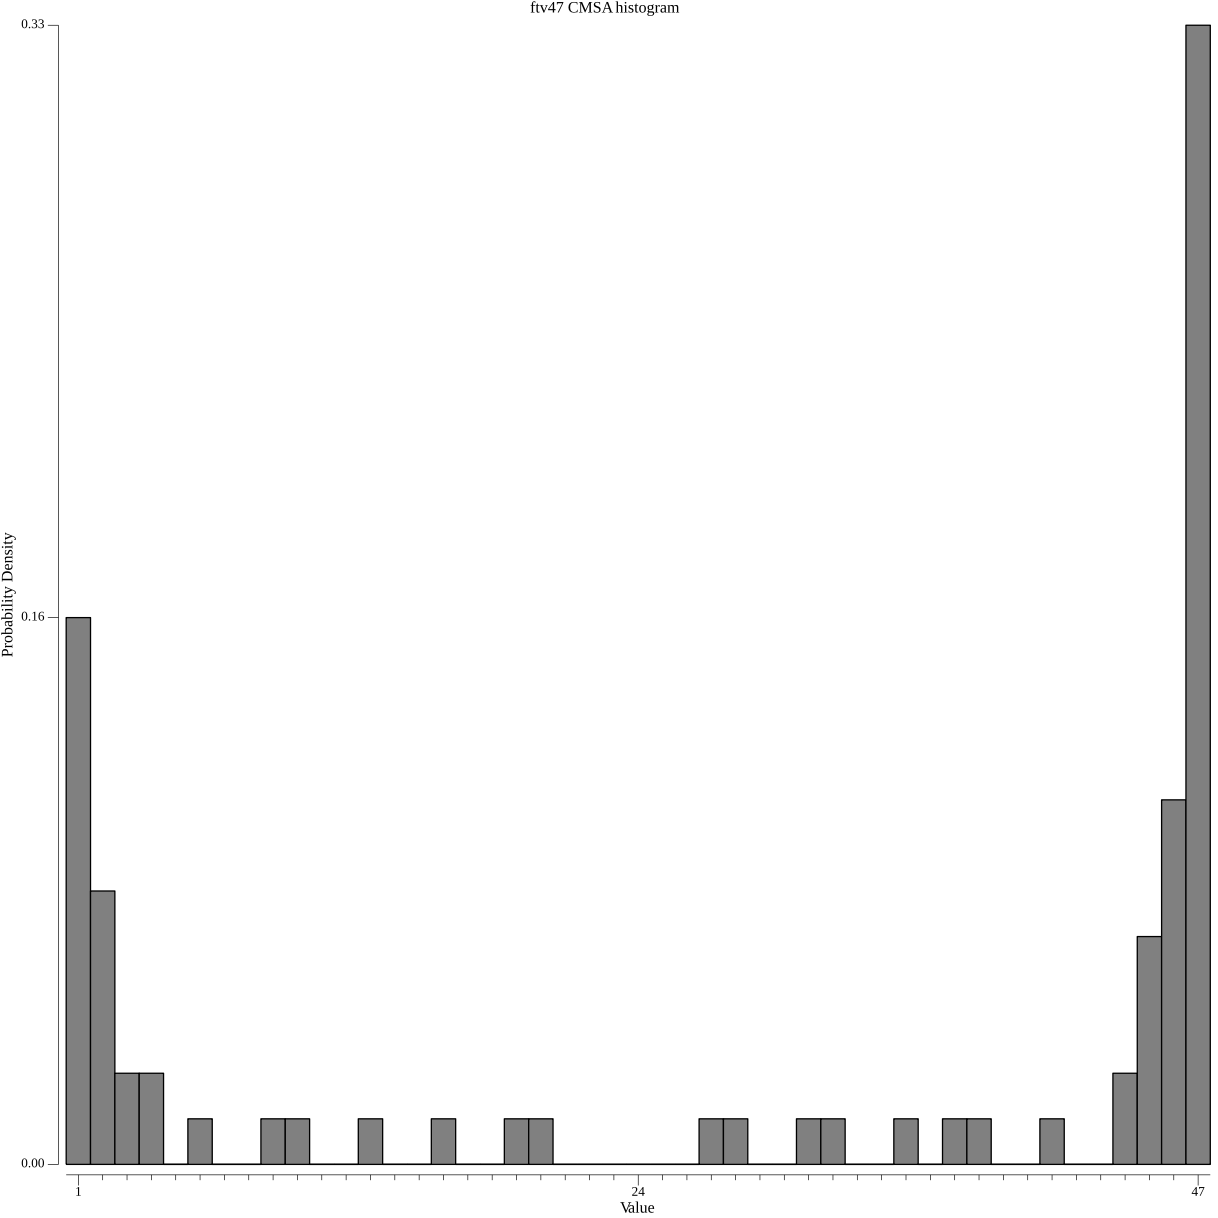
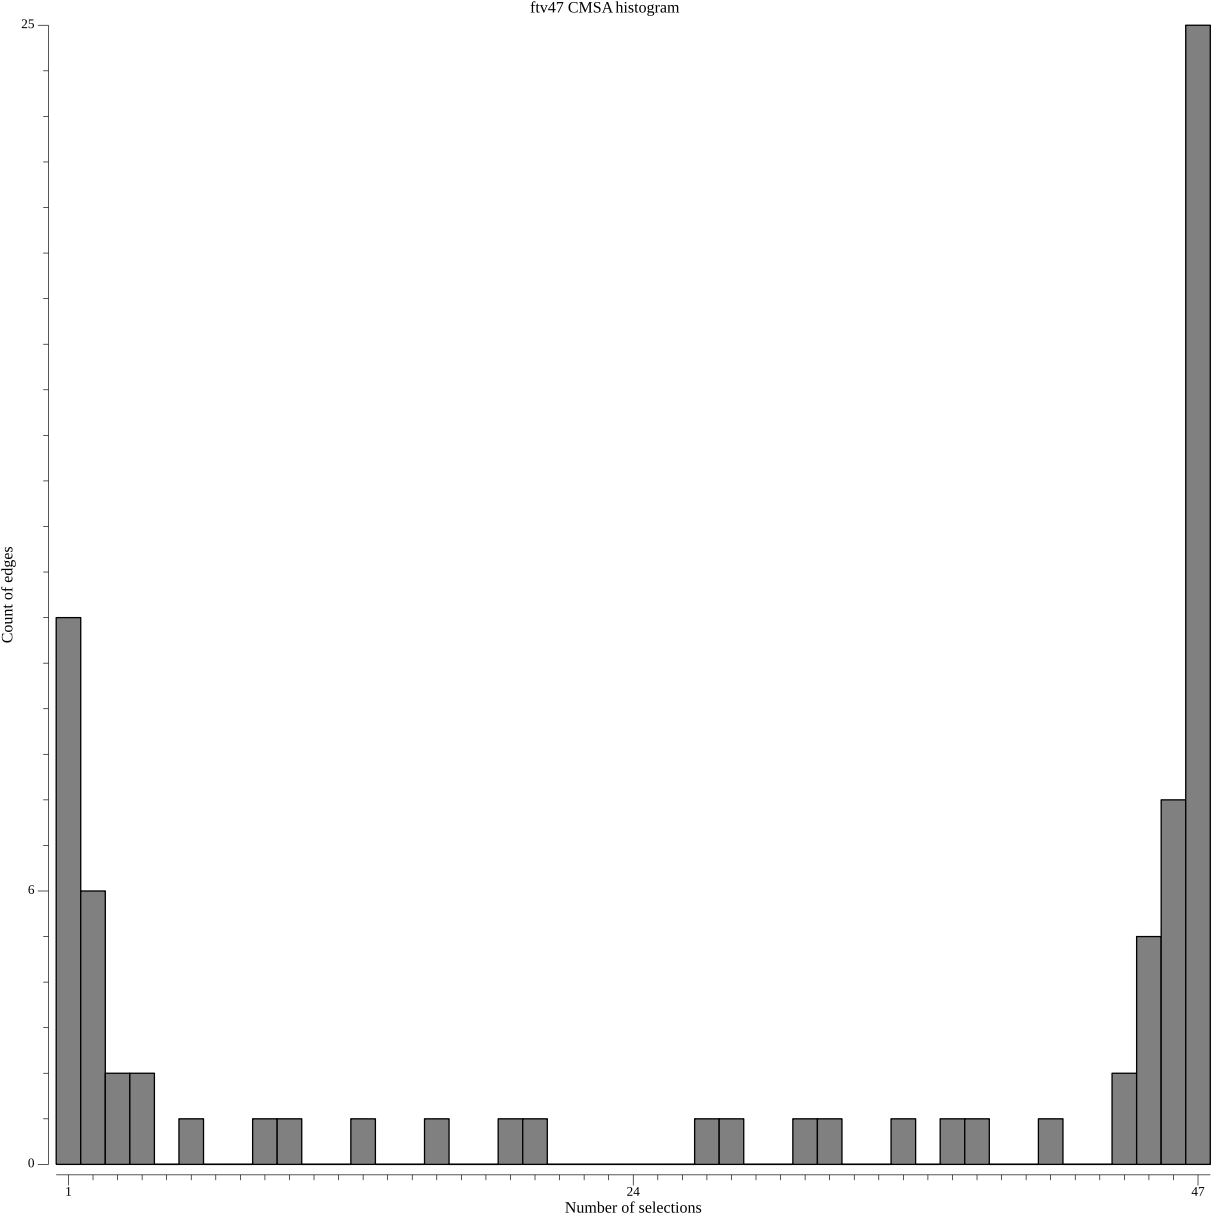
better histograms

diff --git a/modules/utilities/utilities.go b/modules/utilities/utilities.go
@@ -5,6 +5,7 @@ import (
 	"math"
 	"os"
 	"regexp"
+	"sort"
 	"strconv"
 
 	"gonum.org/v1/plot"
@@ -72,20 +73,18 @@ func SaveHistogramFromData(data []float64, bins int, plotTitle, plotPath string)
 
 	histogramPlot := plot.New()
 	histogramPlot.Title.Text = plotTitle
-	histogramPlot.X.Label.Text = "Value"
+	histogramPlot.X.Label.Text = "Number of selections"
 	histogramPlot.X.Min = 1.0
-	histogramPlot.Y.Label.Text = "Probability Density"
+	histogramPlot.Y.Label.Text = "Count of edges"
 
 	hist, err := plotter.NewHist(values, bins)
 	if err != nil {
 		return err
 	}
-	hist.Normalize(1)
 
-	minBin := hist.Bins[0]
-	midBin := hist.Bins[bins/2]
-	maxBin := hist.Bins[bins-1]
-	binsForTicks := []plotter.HistogramBin{minBin, midBin, maxBin}
+	firstBin := hist.Bins[0]
+	middleBin := hist.Bins[bins/2]
+	lastBin := hist.Bins[bins-1]
 
 	histogramPlot.X.Tick.Marker = plot.TickerFunc(func(min, max float64) []plot.Tick {
 		var ticks []plot.Tick
@@ -93,7 +92,7 @@ func SaveHistogramFromData(data []float64, bins int, plotTitle, plotPath string)
 			center := (bin.Min + bin.Max) / 2
 
 			label := ""
-			if bin == minBin || bin == midBin || bin == maxBin {
+			if bin == firstBin || bin == middleBin || bin == lastBin {
 				label = fmt.Sprintf("%d", int(math.Round(center)))
 			}
 
@@ -106,17 +105,37 @@ func SaveHistogramFromData(data []float64, bins int, plotTitle, plotPath string)
 		return ticks
 	})
 
+	heightsSet := make(map[int]bool)
+	for _, bin := range hist.Bins {
+		heightsSet[int(bin.Weight)] = true
+	}
+
+	heights := make([]int, 0, len(heightsSet))
+	for k := range heightsSet {
+		heights = append(heights, k)
+	}
+
+	sort.Slice(heights, func(i, j int) bool {
+		return heights[i] < heights[j]
+	})
+
+	heightsCount := len(heights)
+	smallestHeight := heights[0]
+	medianHeight := heights[heightsCount/2]
+	biggestHeight := heights[heightsCount-1]
+
 	histogramPlot.Y.Tick.Marker = plot.TickerFunc(func(min, max float64) []plot.Tick {
 		var ticks []plot.Tick
-		for _, bin := range binsForTicks {
+
+		for i := 0; i <= biggestHeight; i++ {
 
 			label := ""
-			if bin == minBin || bin == midBin || bin == maxBin {
-				label = fmt.Sprintf("%.2f", bin.Weight)
+			if i == smallestHeight || i == medianHeight || i == biggestHeight {
+				label = fmt.Sprintf("%d", i)
 			}
 
 			ticks = append(ticks, plot.Tick{
-				Value: bin.Weight,
+				Value: float64(i),
 				Label: label,
 			})
 		}
